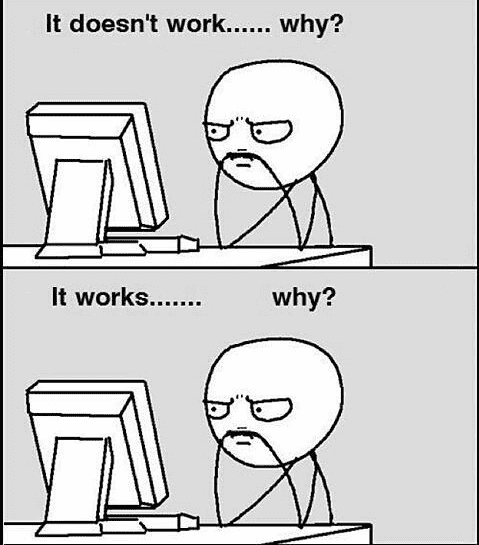
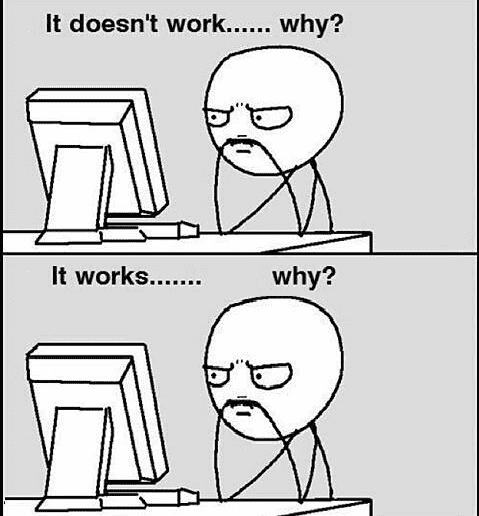
fix: fix one image height and image container height (Fri, Sep 15, 2023 02:41:18 AM)

Changed region(s): [[0.0, 0.031, 1.0, 1.0]]

diff --git a/cssMemeSlider/style.css b/cssMemeSlider/style.css
@@ -28,7 +28,7 @@ input {
 }
 
 .main-wrapper {
-    width: 60%;
+    width: 70%;
     margin: 0 auto;
     display: flex;
     flex-direction: column;
@@ -45,7 +45,7 @@ input {
 
 .inner {
     width: 100%;
-    height: 34.375rem;
+    height: 32.25rem;
     display: flex;
     flex-wrap: nowrap;
     justify-content: flex-start;
